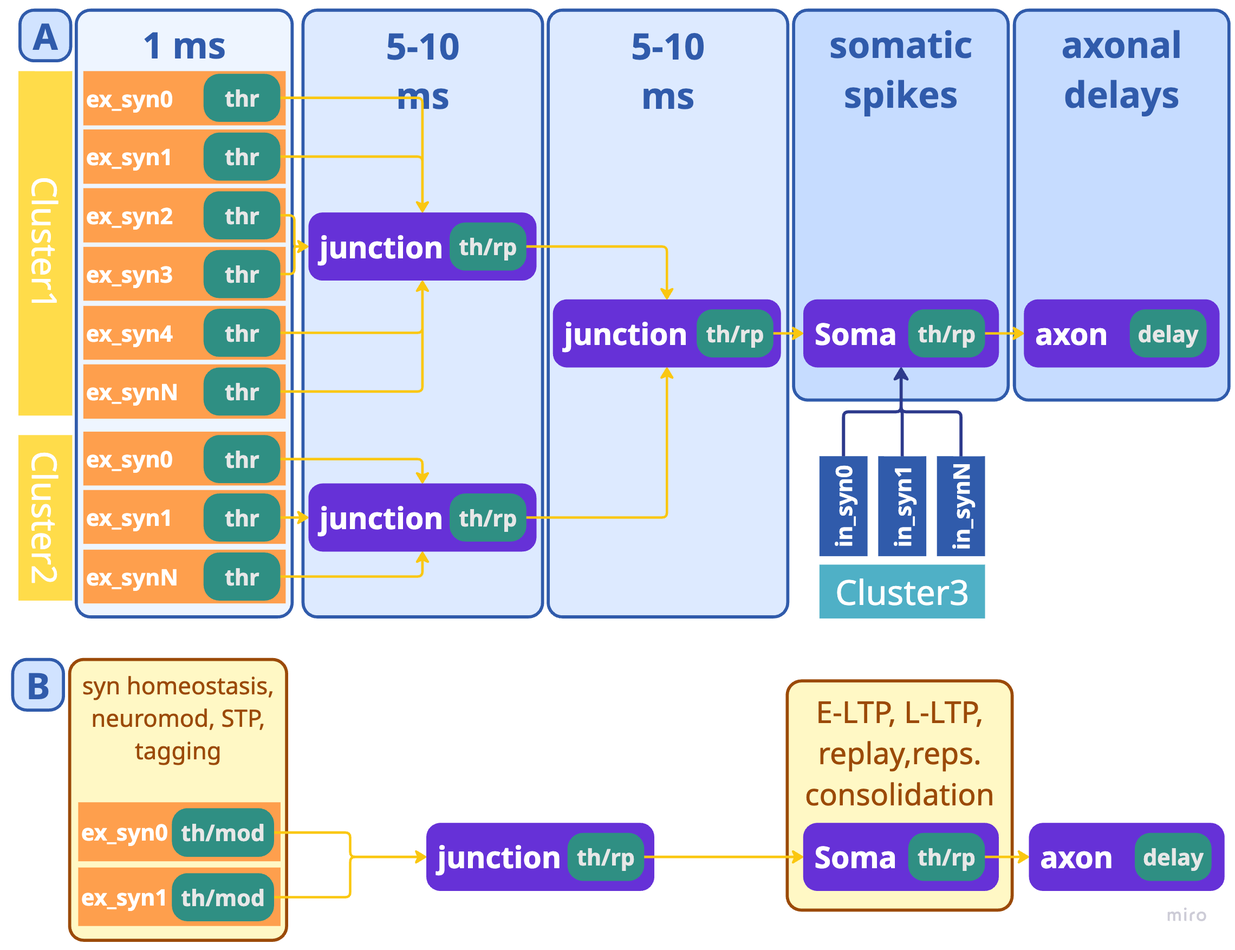
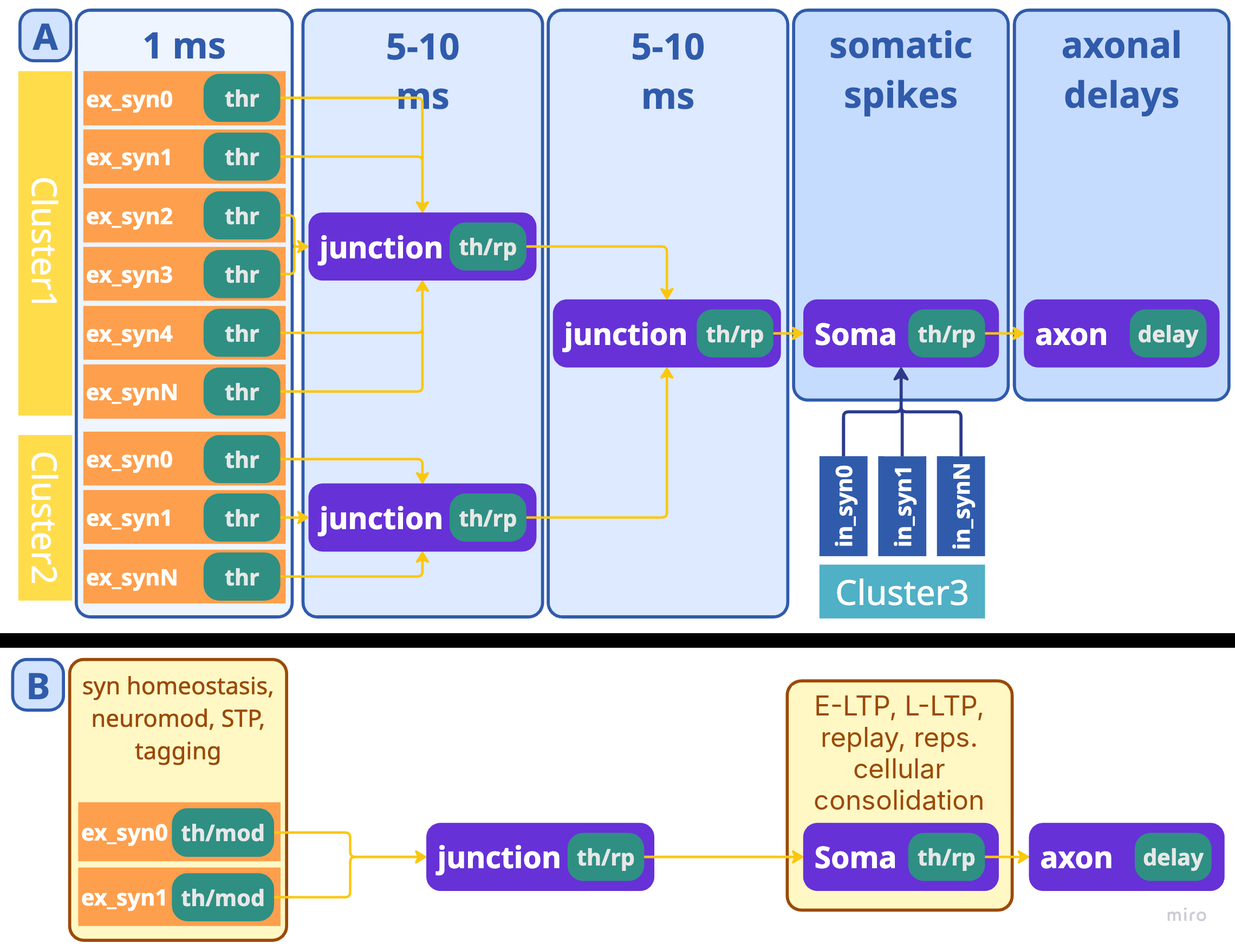
Apply system-consolidation wording to memristive doc; update figures
- Memristive doc: cellular/system terminology; late-LTP stabilized ~4-8 h
  with persistence separate; system consolidation as loss of dependence on
  the organic tier, with its post-consolidation state a free parameter
  (standard, multiple-trace, trace-transformation accounts named); cortical
  tier gets its own cellular-consolidation (volatile-until-latched) step.
- Fig. 1 regenerated from new figures/src/make_timescale_axis.py with
  consolidation brackets and corrected row labels.
- Fig. 3B relabelled "cellular consolidation".
- Tier-map SVG: late-LTP stabilization bar + persistence tail, labels.
- Model doc captions and handoff updated.

Claude-Session: https://claude.ai/code/session_018y5BKV23h8kGbqtpRhvYD4

Changed region(s): [[0.0, 0.6465, 1.0, 0.7081], [0.6539, 0.7389, 0.8096, 0.862]]

diff --git a/figures/src/make_timescale_axis.py b/figures/src/make_timescale_axis.py
@@ -1,0 +1,68 @@
+"""Regenerate figures/timescale_axis.png (model Fig. 1).
+
+Bar extents are the time constants of hippocampal_plasticity_model.md §1 (seconds, log axis).
+Solid bar = characteristic duration; dotted tail = persistence after stabilization (row 6),
+recurrence (row 7) or the human range beyond the rodent one (row 8).
+Brackets on the right mark the two kinds of consolidation (model §1, terminology).
+"""
+import matplotlib
+matplotlib.use("Agg")
+import matplotlib.pyplot as plt
+from pathlib import Path
+
+MIN, HR, DAY, WK, YR = 60.0, 3600.0, 86400.0, 7 * 86400.0, 365.25 * 86400.0
+# (label, colour, bar start, bar end, tail end or None), times in s
+ROWS = [
+    ("Neurotransmission",        "#2e6fa7", 4e-4, 6e-3, None),
+    ("STP (AMPA/NMDA)",          "#1e8fa0", 8e-3, 1.3, None),
+    ("Ca²⁺ / kinase cascades",   "#4c8c3b", 0.75, 5 * MIN, None),
+    ("AMPAR trafficking, E-LTP", "#ad8a2e", 1 * MIN, 3 * HR, None),
+    ("Tagging & capture",        "#c1642f", 1 * MIN, 4 * HR, None),
+    ("Transcription, L-LTP",     "#c1642f", 30 * MIN, 8 * HR, 14 * DAY),
+    ("SWR replay",               "#a6433f", 0.1, 1 * DAY, 9 * DAY),
+    ("System consolidation",     "#6b4a8a", 0.7 * DAY, 30 * DAY, 10 * YR),
+]
+TICKS = [(1e-3, "1 ms"), (0.1, "100 ms"), (1, "1 s"), (MIN, "1 min"), (HR, "1 hr"),
+         (DAY, "1 day"), (WK, "1 week"), (YR, "1 year"), (10 * YR, "10 yr")]
+GRID = [1e-3, 1e-2, 0.1, 1, 10, MIN, 600, HR, 10 * HR, DAY, WK, 30 * DAY, YR, 10 * YR]
+
+plt.rcParams["font.family"] = "DejaVu Sans Mono"
+fig = plt.figure(figsize=(18, 8), dpi=100)
+ax = fig.add_axes([0.25, 0.17, 0.59, 0.80])
+ax.set_xscale("log")
+ax.set_xlim(1.5e-4, 2e9)
+ax.set_ylim(len(ROWS) - 0.4, -0.8)
+for g in GRID:
+    ax.axvline(g, color="#dddddd", lw=1.2, zorder=0, ymax=0.97)
+for i, (lab, col, a, b, tail) in enumerate(ROWS):
+    if tail:
+        ax.plot([b, tail], [i, i], ls=(0, (0.1, 2.2)), lw=9, color=col, alpha=0.55,
+                dash_capstyle="round")
+    ax.plot([a, b], [i, i], lw=22, color=col, solid_capstyle="round")
+    y_fig = 0.17 + 0.80 * (len(ROWS) - 0.4 - i) / (len(ROWS) - 0.4 + 0.8)
+    fig.text(0.012, y_fig, f"{i + 1} · {lab}", color=col, fontsize=17, va="center", ha="left")
+
+
+def bracket(i0, i1, text, col):
+    x = 1.012
+    ax.plot([x, x + 0.006, x + 0.006, x], [i0 - 0.3, i0 - 0.3, i1 + 0.3, i1 + 0.3],
+            transform=ax.get_yaxis_transform(), color=col, lw=2, clip_on=False)
+    ax.text(x + 0.014, (i0 + i1) / 2, text, transform=ax.get_yaxis_transform(), color=col,
+            fontsize=13, va="center", ha="left", clip_on=False)
+
+
+bracket(4, 5, "cellular\nconsolidation\n(synaptic correlate,\nhypothesised;\n~0–6 h)", "#c1642f")
+bracket(7, 7, "system\nconsolidation\n(days–years)", "#6b4a8a")
+
+ax.set_yticks([])
+ax.set_xticks([t for t, _ in TICKS], [l for _, l in TICKS], fontsize=14, color="#444")
+ax.minorticks_off()
+for s in ("top", "right", "left"):
+    ax.spines[s].set_visible(False)
+ax.spines["bottom"].set_color("#484c5e")
+ax.spines["bottom"].set_linewidth(2)
+fig.text(0.012, 0.03, "●●●  dotted = persistence after stabilization (row 6), recurrence (row 7), "
+         "human range (row 8)", fontsize=15, color="#757886")
+out = Path(__file__).resolve().parents[1] / "timescale_axis.png"
+fig.savefig(out, facecolor="white")
+print(out)

diff --git a/hippocampal_memristive_implementation.md b/hippocampal_memristive_implementation.md
@@ -5,10 +5,10 @@ This document specifies hardware realizations — memristive and digital — of 
 references without a prefix are to this document. Further hardware-feasibility detail is in
 [docs/neuron_model_optimization.md](docs/neuron_model_optimization.md) (the "companion hardware document").
 
-*Terminology note: the text below was moved unchanged from the original combined specification
-(`hippocampal_timescales_as_circuit_spec.md`), with cross-references updated. It has not yet been
-revised for the cellular/system consolidation distinction or the late-LTP stabilization/persistence
-split defined in model §1; where the two documents differ, the model document is current.*
+*Terminology follows model §1: "consolidation" is always qualified as **cellular** (protein-synthesis-
+dependent stabilization within ~6 h, local to each region, cortex included) or **system** (the memory
+becoming independent of the hippocampus over days or longer). The text was moved from the original
+combined specification (`hippocampal_timescales_as_circuit_spec.md`) and revised on this point.*
 
 ## 1. Timescale constraints on circuits
 
@@ -26,13 +26,13 @@ specific circuit primitive.
 | Synaptic tagging & capture | tag set in 1–2 min, decays τ≈1–4 hr | The pivot point: a local, transient, decaying signal that is either captured or lost — directly analogous to a volatile-memristor relaxation state (§2). |
 | Transcription / late-LTP | onset ~30–60 min, stable by ~4–8 hr | Once captured, this state should stop decaying — a discrete regime change, not a continuous process. |
 | Sharp-wave-ripple replay | ripple 100–300 ms, recurs over hours–days | Compressed replay packs sequence elements only a few milliseconds apart — this is the number that actually sizes circuit timing budgets in §4 of the companion hardware document (`docs/neuron_model_optimization.md`). |
-| Systems consolidation | days–weeks (rodent) to months–years (human) | Fully clocked-digital territory; no continuous-time requirement whatsoever. |
+| System consolidation | days–weeks (rodent) to months–years (human) | Fully clocked-digital territory; no continuous-time requirement whatsoever. |
 
 ### 1.1 Interactive timescale map
 
 The same eight stages, redrawn and colored by which memristor tier implements them (§6): **blue** = quick/organic, hippocampal-local; **purple** = replay, the stage that touches both tiers at once; **orange** = slow/inorganic, cortical.
 
-![Timescale map: eight stages on a log time axis from 1 ms to 10 years, colored by memristor tier — blue for quick/organic stages from neurotransmission through late-LTP, purple for the replay stage that bridges both tiers, orange for systems consolidation on the slow/inorganic tier.](figures/timescale_interactive_map.svg)
+![Timescale map: eight stages on a log time axis from 1 ms to 10 years, colored by memristor tier — blue for quick/organic stages from neurotransmission through late-LTP, purple for the replay stage that bridges both tiers, orange for system consolidation on the slow/inorganic tier.](figures/timescale_interactive_map.svg)
 
 *Fig. 1′ — Static rendering of model Fig. 1's timescale axis, colored by memristor tier per §6. Use the table below to jump to a stage's section.*
 
@@ -43,9 +43,9 @@ The same eight stages, redrawn and colored by which memristor tier implements th
 | Ca²⁺/kinase cascades | ~1 s–5 min | Quick (organic) | model §3.4 |
 | [AMPAR trafficking / early-LTP](#2-synaptic-tagging-and-capture-as-a-volatile-memristor-circuit) | ~1–30 min, decays over 1–3 hr | Quick (organic) | [§2](#2-synaptic-tagging-and-capture-as-a-volatile-memristor-circuit) |
 | [Synaptic tagging & capture](#2-synaptic-tagging-and-capture-as-a-volatile-memristor-circuit) | tag set 1–2 min, decays τ≈1–4 hr | Quick (organic) | [§2](#2-synaptic-tagging-and-capture-as-a-volatile-memristor-circuit) |
-| [Transcription / late-LTP](#6-memory-consolidation-replay-as-a-volatile-to-non-volatile-handoff) | onset ~30–60 min, stable ~2 days | Quick (organic) | [§6](#6-memory-consolidation-replay-as-a-volatile-to-non-volatile-handoff) |
-| [Sharp-wave-ripple replay](#6-memory-consolidation-replay-as-a-volatile-to-non-volatile-handoff) | ripple 100–300 ms, recurs over hours–days | Bridge (organic → inorganic) | [§6](#6-memory-consolidation-replay-as-a-volatile-to-non-volatile-handoff) |
-| [Systems consolidation](#6-memory-consolidation-replay-as-a-volatile-to-non-volatile-handoff) | days–weeks (rodent) to months–years (human) | Slow (inorganic) | [§6](#6-memory-consolidation-replay-as-a-volatile-to-non-volatile-handoff) |
+| [Transcription / late-LTP](#6-system-consolidation-replay-as-a-volatile-to-non-volatile-handoff) | onset ~30–60 min, stabilized ~4–8 hr; persists days or longer | Quick (organic) | [§6](#6-system-consolidation-replay-as-a-volatile-to-non-volatile-handoff) |
+| [Sharp-wave-ripple replay](#6-system-consolidation-replay-as-a-volatile-to-non-volatile-handoff) | ripple 100–300 ms, recurs over hours–days | Bridge (organic → inorganic) | [§6](#6-system-consolidation-replay-as-a-volatile-to-non-volatile-handoff) |
+| [System consolidation](#6-system-consolidation-replay-as-a-volatile-to-non-volatile-handoff) | days–weeks (rodent) to months–years (human) | Slow (inorganic) | [§6](#6-system-consolidation-replay-as-a-volatile-to-non-volatile-handoff) |
 
 ## 2. Synaptic tagging and capture as a volatile-memristor circuit
 
@@ -84,17 +84,21 @@ Caus, Sławek, Mazur, Zawal, Baś, Szaciłowski, Talanov & Abdi (2026, "The memr
 
 This volatile-versus-latched split, produced by changing only the axial ligand on one underlying complex, brackets the `τ_tag ≈ 1–4 hr` range in §1's table and provides the two states the tag/capture analogy in §2 requires: a device that relaxes on its own (parent complex, minutes-scale retention) and a device that holds once switched (benzimidazole derivative, hours-plus retention) — a materials-level realization of "tag decays unless captured." The paper's I–V and retention data characterize switching and retention, not conductance-step-versus-pulse-amplitude behavior; the graded-SET behavior specified in §4's `V_seg` block is not demonstrated by this data and remains an open device-characterization question. The same paper's methylammonium-lead-iodide perovskite devices, modified with graphene oxide, fullerenol (C₆₀(OH)), or multiwalled carbon nanotubes, show measurable STDP-like potentiation directly in the memristive response, a second materials route toward stage-1's threshold-plus-plasticity behavior. The same paper also proposes a random-junction stochastic-network framing (percolating Ag–Ag₂S and SWNT/Por-POM meshes) as a physical analogue for the probabilistic, disordered connectivity in the clustering stage.
 
-## 6. Memory consolidation: replay as a volatile-to-non-volatile handoff
+## 6. System consolidation: replay as a volatile-to-non-volatile handoff
 
-§1's systems-consolidation row and §5.2's device data point at the same architecture from two directions: a hippocampal trace is fast, local, and volatile; a cortical trace is slow to form but effectively permanent. Replay (§1, SWR row) is the mechanism that drives one into the other, and the two memristor technologies proposed as tag elements above map onto the two ends of that handoff by more than analogy.
+§1's system-consolidation row and §5.2's device data point at the same architecture from two directions: a hippocampal trace forms fast, locally, and is volatile until captured; a cortical trace is slow to form but, once formed, stable. Replay (§1, SWR row) is the proposed mechanism by which the memory comes to be supported by the cortical trace, and the two memristor technologies proposed as tag elements above map onto the two sides of that process by more than analogy.
+
+What system consolidation is defined by matters for the hardware reading (model §1, §4): after it, the memory no longer *depends* on the hippocampus. That observation does not establish that the hippocampal trace is gone. Three accounts are compatible with it (citations from memory, unverified): the standard model, in which the hippocampal trace is no longer needed once the cortical one is established (e.g. Squire & Alvarez, 1995); multiple-trace theory, in which the hippocampus remains necessary for detailed episodic recall (Nadel & Moscovitch, 1997); and trace-transformation theory, in which the cortical trace is a schematic version of the hippocampal one (Winocur & Moscovitch, 2011). The architecture below commits to none of them: the state of the fast tier after system consolidation is a free parameter.
 
 **Fast tier: organic volatile memristors.** The tag/capture element in §2 and §5.2 is deliberately a device that relaxes on its own unless captured — matching Victor Erokhin's organic (polymeric) memristors, which switch and decay on short, biologically-relevant timescales and, being solution-processed, can be additively 3D-printed rather than requiring foundry fabrication. That fabrication route trades device count for reconfigurability: organic memristors are cheap to print in small numbers at synapse-like density, which is exactly the local, per-tag-site role §2 and §5 assign them, not a route to the device counts a cortex-scale store needs.
 
-**Slow tier: inorganic non-volatile memristors, at scale.** Systems consolidation redistributes one hippocampal engram across a much larger, distributed population of cortical synapses — a fan-out, not a copy. Themis Prodromakis's inorganic (metal-oxide) memristor crossbars are the complementary device for that side: individually slower to switch and non-volatile once set, but fabricated at silicon densities reaching on the order of 10⁶ devices per chip. What this tier contributes is not per-device sophistication but sheer number — the same property that lets a sparse hippocampal representation be redistributed across a large population of stable cortical sites.
+**Slow tier: inorganic non-volatile memristors, at scale.** System consolidation makes the memory supported by a much larger, distributed population of cortical synapses — a fan-out, not a copy. Themis Prodromakis's inorganic (metal-oxide) memristor crossbars are the complementary device for that side: individually slower to switch and non-volatile once set, but fabricated at silicon densities reaching on the order of 10⁶ devices per chip. What this tier contributes is not per-device sophistication but sheer number — the same property that lets a sparse hippocampal representation drive a large population of stable cortical sites.
 
-**Replay as the handoff mechanism.** Each SWR event (§1: 100–300 ms, recurring over hours–days) replays a compressed version of a stored sequence, re-driving the same volatile organic tag sites that stored it originally. Repeated replay is the network-level equivalent of the PRP-threshold capture signal in §2: each pass is one more SET pulse toward a target inorganic memristor, and once enough passes have accumulated, that cortical-side device latches into its own non-volatile state — the same discrete regime change §1 assigns to transcription/late-LTP, relocated from a single synapse to a population of chip-scale devices. Before enough replay has occurred, the trace exists only in the fast organic tier and is lost if it decays uncaptured; after, it persists in the slow inorganic tier independent of the organic device's state, which is the hardware reading of hippocampal-to-cortical transfer, not just a shared vocabulary of "volatile" and "non-volatile."
+Cortical synapses undergo cellular consolidation of their own (model §4): a cortical change is labile until a local, protein-synthesis-dependent step stabilizes it. The slow tier therefore cannot be a write-once store in which every SET pulse is permanent. Each cortical site needs a labile state that decays unless enough replay passes arrive to latch it — the cortical counterpart of tag/capture. Whether a single inorganic device shows this volatile-until-latched behavior, or a volatile and a non-volatile device must be paired per site, is an open device requirement.
 
-**Process-to-device mapping.** The split follows the anatomy, not the process list: every stage that runs *at the hippocampal synapse* — from neurotransmission through late-LTP, including the full tag-decay/capture dynamic of model Fig. 2 — stays on the quick, organic-volatile side. Only replay and systems consolidation cross to the slow, inorganic-non-volatile side, because that is the only stage that physically relocates the trace to a cortical synapse.
+**Replay as the handoff mechanism.** Each SWR event (§1: 100–300 ms, recurring over hours–days) replays a compressed version of a stored sequence, re-driving the same volatile organic tag sites that stored it originally. Repeated replay is the network-level equivalent of the PRP-threshold capture signal in §2: each pass is one more SET pulse toward a target inorganic memristor, and once enough passes have accumulated, that cortical-side device latches into its own non-volatile state — the same discrete regime change §1 assigns to transcription/late-LTP, now occurring at cortical sites: the slow tier's own cellular consolidation. Before enough replay has occurred, recall depends on the fast organic tier, and the memory is lost if the organic trace decays uncaptured; after, recall no longer depends on the organic device's state. That loss of dependence — not erasure of the organic trace — is the hardware reading of system consolidation.
+
+**Process-to-device mapping.** The split follows the anatomy, not the process list: every stage that runs *at the hippocampal synapse* — from neurotransmission through late-LTP, including the full tag-decay/capture dynamic of model Fig. 2 — stays on the quick, organic-volatile side. Only replay and system consolidation involve the slow, inorganic side, because they are the only processes in this model that engage cortical synapses. Cellular consolidation is not confined to one tier: it is tag/capture on the organic side and the latching step on the inorganic side.
 
 | Process (§1) | Time constant | Hippocampal / quick tier — organic volatile memristor (Erokhin) | Cortical / slow tier — inorganic non-volatile memristor (Prodromakis) |
 |---|---|---|---|
@@ -103,13 +107,13 @@ This volatile-versus-latched split, produced by changing only the axial ligand o
 | Ca²⁺/kinase cascades | ~1 s–5 min | Sets tag-induction amplitude (`tag_amplitude`, model §3.4) — the SET pulse into the organic device | — |
 | AMPAR trafficking / early-LTP | ~1–30 min, decays 1–3 hr | The organic device's own relaxing low-resistance state (§2, §5.2 parent complex) | — |
 | Synaptic tagging & capture | tag set 1–2 min, decay τ≈1–4 hr | Model Fig. 2's decay/capture dynamic, entirely within the organic device — PRP-threshold crossing is the capture event | — |
-| Transcription / late-LTP | onset 30–60 min, stable ~2 days | Captured, stabilized organic-device state, held locally at the hippocampal synapse | — |
+| Transcription / late-LTP | onset 30–60 min, stabilized ~4–8 hr; persists days or longer | Captured, stabilized organic-device state, held locally at the hippocampal synapse (hippocampal cellular consolidation) | Same regime change at cortical sites when replay latches them (cortical cellular consolidation) |
 | Sharp-wave-ripple replay | 100–300 ms, recurs over hours–days | Re-drives the stabilized organic synapse on every pass | Each pass delivers one accumulating SET pulse toward the cortical device — the fan-out source |
-| Systems consolidation | days–weeks (rodent) to months–years (human) | Organic device's role ends once the trace has been sufficiently replayed | Non-volatile inorganic crossbar — the permanent, distributed cortical store (10⁶ devices/chip) |
+| System consolidation | days–weeks (rodent) to months–years (human) | Recall stops depending on the organic device once the trace has been sufficiently replayed; the device's state afterwards (cleared, kept or transformed) is a free parameter | Inorganic crossbar — the distributed cortical store (10⁶ devices/chip), stable once latched |
 
-Everything through late-LTP is a hippocampal-synapse-local, organic-volatile story — nothing inorganic is involved yet. Replay is the only process that touches both tiers at once: it reads the stabilized organic state and writes it, pulse by pulse, into the cortical inorganic array, which is why systems consolidation (days to years) is orders of magnitude slower than tagging and capture (minutes to hours) — it is rate-limited by how often replay revisits a given trace, not by either device's intrinsic switching speed.
+Everything through late-LTP is a hippocampal-synapse-local, organic-volatile story — nothing inorganic is involved yet. Replay is the only process that touches both tiers at once: it reads the stabilized organic state and writes it, pulse by pulse, into the cortical inorganic array, which is why system consolidation (days to years) is orders of magnitude slower than tagging and capture (minutes to hours) — it is rate-limited by how often replay revisits a given trace, not by either device's intrinsic switching speed.
 
-**Open risk.** This is an architectural hypothesis, not a demonstrated circuit: it requires a working interface between an organic volatile array and a much larger inorganic non-volatile array, with the replay-driven SET-accumulation rate on the inorganic side calibrated against the hours-to-days systems-consolidation timescale in §1's table — a two-technology integration problem on top of the single-device characterization risks already flagged in §4 and §5.2.
+**Open risk.** This is an architectural hypothesis, not a demonstrated circuit: it requires a working interface between an organic volatile array and a much larger inorganic non-volatile array, with the replay-driven SET-accumulation rate on the inorganic side calibrated against the days-or-longer system-consolidation timescale in §1's table — a two-technology integration problem on top of the single-device characterization risks already flagged in §4 and §5.2, plus the volatile-until-latched requirement on the cortical device above.
 
 ---
 

diff --git a/hippocampal_plasticity_model.md b/hippocampal_plasticity_model.md
@@ -36,10 +36,10 @@ event, and one is system consolidation.
 
 ![Eight plasticity and memory processes plotted on one logarithmic time axis from 1 ms to 10 years — bar position marks onset, length marks characteristic duration, and processes visibly overlap rather than handing off in strict sequence.](figures/timescale_axis.png)
 
-*Fig. 1 — The eight plasticity and memory processes on one log time axis. The image labels row 8
-"Systems consolidation" and the legend speaks of a "consolidation window"; both predate the
-cellular/system terminology above (row 8 is system consolidation; rows 5–6 are the synaptic correlate
-of cellular consolidation). Full molecular detail (receptor subunits, kinase cascades, transcription
+*Fig. 1 — The eight plasticity and memory processes on one log time axis. Brackets mark the
+hypothesised synaptic correlate of cellular consolidation (rows 5–6) and system consolidation (row 8).
+Row 6's solid bar is the stabilization time; its dotted tail is persistence. Generated by
+`figures/src/make_timescale_axis.py`. Full molecular detail (receptor subunits, kinase cascades, transcription
 factors) is in the companion [Consolidation Cascade](https://claude.ai/code/artifact/f879468e-00e8-4ca1-9acc-348b12cc7e33) document.*
 
 | # | Process | Time constant | Class | Where | Role in the model |
@@ -97,8 +97,8 @@ second, independent axis, tag *amplitude*, using the `V_seg` state variable intr
 (A) synapse and dendritic-spike generation, and the timescales of dendritic-spike propagation along the
 dendritic tree; (B) synaptic homeostasis, short-term plasticity, and neuromodulation-driven tagging —
 through E-LTP, L-LTP, and replay — to consolidation, each mapped to the neuronal compartment where it
-occurs. "Consolidation" in panel B means cellular consolidation at the single neuron (E-LTP → L-LTP);
-system consolidation is a network process (§4).*
+occurs. Panel B's somatic box reads "cellular consolidation": the single-neuron process (E-LTP →
+L-LTP); system consolidation is a network process (§4).*
 
 ### 3.1 Layer A — dendritic-spike timescales
 
@@ -236,8 +236,9 @@ Two constraints follow from the terminology above:
   local, protein-synthesis-dependent step of their own.
 - The defining observation is loss of *dependence* on the hippocampus. Whether the hippocampal trace is
   removed, retained or transformed after system consolidation is not determined by that observation.
-  The hardware mapping in the companion document (§6 there) currently describes the trace as relocated;
-  that wording has not yet been revised.
+  The hardware mapping in the companion document (§6 there) leaves the fast tier's state after system
+  consolidation as a free parameter, so that the standard, multiple-trace and trace-transformation
+  accounts all remain expressible.
 
 System consolidation is outside the scope of the NEURON implementation ([docs/plan.md](docs/plan.md)),
 which models §1–§3 in one CA1 pyramidal cell and its interneurons: short-term plasticity and the

diff --git a/docs/handoff.md b/docs/handoff.md
@@ -64,10 +64,13 @@ which contradicts the plan's "SC -> PV depressing" criterion. Still needed: prim
 ## Open items from Edu's consolidation comment (2026-10-22)
 
 Applied: terminology in the model document, late-LTP stabilization vs persistence, this record.
+Applied 2026-10-22: the memristive document uses the same terminology; system consolidation is
+"recall no longer depends on the organic tier" (the organic state afterwards is a free parameter;
+standard, multiple-trace and trace-transformation accounts named); the cortical tier has its own
+cellular-consolidation (volatile-until-latched) step, an open device requirement. Fig. 1 regenerated
+(`figures/src/make_timescale_axis.py`); Fig. 3B relabelled "cellular consolidation" (raster patch, no
+source file); tier-map SVG updated (late-LTP stabilized ~4–8 h with persistence tail).
 Not yet applied (need a decision by the project owner):
-- The memristive document (§1.1, §6) still uses "systems consolidation", "stable ~2 days", and says
-  replay "physically relocates the trace" / the organic tier's "role ends". Revise to "independent of"
-  the hippocampal tier and give the cortical tier its own cellular-consolidation (volatile + capture) step.
 - S4: add a time-resolved PRP block (switch PRP production off at t_b = 0...8 h after induction, read
   w_T late) so that the protein-synthesis-sensitivity window is a model output to compare with ~6 h.
   With instantaneous capture in `SegTag` the window will be short; decide instantaneous vs gradual
